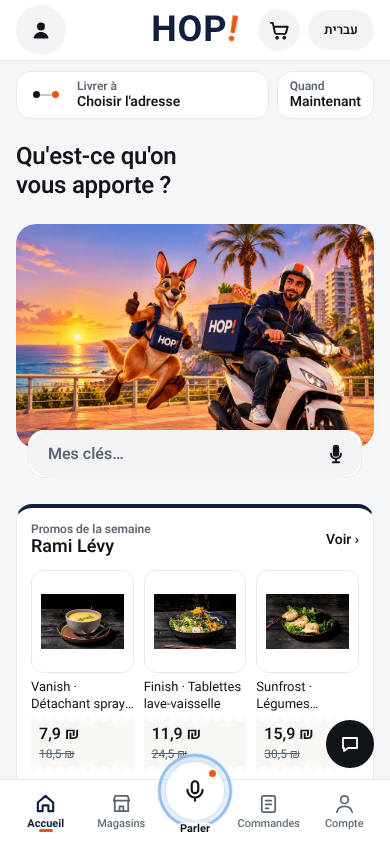
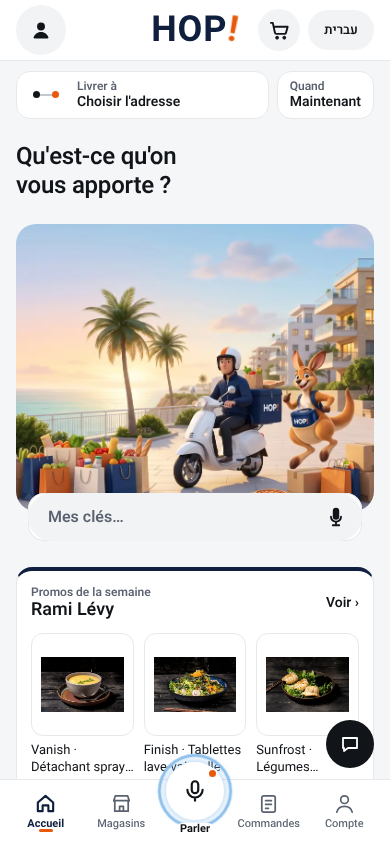
Accueil : la nouvelle image du patron (promenade, courses, Hoppy et le livreur), cadrée sur le scooter et Hoppy
Claude-Session: https://claude.ai/code/session_01HjyNE8jb2CVL8HhFoocmFa

diff --git a/livraison/coursier.html b/livraison/coursier.html
@@ -53,9 +53,9 @@
       window.addEventListener("load", function () { if (first) later(); });
     })();
   </script>
-  <script src="coursier-lang.js?v=202611231750"></script>
+  <script src="coursier-lang.js?v=202611231858"></script>
   <link rel="stylesheet" href="https://cdnjs.cloudflare.com/ajax/libs/leaflet/1.9.4/leaflet.min.css" />
-  <link rel="stylesheet" href="styles.css?v=202611231750" />
+  <link rel="stylesheet" href="styles.css?v=202611231858" />
 <style id="splashCss">#splash{position:fixed;inset:0;z-index:99999;display:flex;flex-direction:column;align-items:center;justify-content:center;gap:18px;background:#0F1F3D;color:#fff;transition:opacity .35s ease}#splash.out{opacity:0;pointer-events:none}#splash svg{width:min(58vw,300px);height:auto;display:block}#splash span{font:700 16px/1 Rubik,-apple-system,Arial,sans-serif;letter-spacing:.42em;margin-inline-start:.42em;opacity:.92}</style>
 </head>
 <body>
@@ -297,14 +297,14 @@
 
 <script src="https://cdnjs.cloudflare.com/ajax/libs/leaflet/1.9.4/leaflet.min.js"></script>
 <script src="https://cdnjs.cloudflare.com/ajax/libs/qrcodejs/1.0.0/qrcode.min.js"></script>
-<script src="config.js?v=202611231750"></script>
-<script src="i18n.js?v=202611231750"></script>
-<script src="pricing.js?v=202611231750"></script>
-<script src="store.js?v=202611231750"></script>
-<script src="chat.js?v=202611231750"></script>
-<script src="common.js?v=202611231750"></script>
-<script src="badge.js?v=202611231750"></script>
-<script src="coursier.js?v=202611231750"></script>
+<script src="config.js?v=202611231858"></script>
+<script src="i18n.js?v=202611231858"></script>
+<script src="pricing.js?v=202611231858"></script>
+<script src="store.js?v=202611231858"></script>
+<script src="chat.js?v=202611231858"></script>
+<script src="common.js?v=202611231858"></script>
+<script src="badge.js?v=202611231858"></script>
+<script src="coursier.js?v=202611231858"></script>
 <script>(function(){var s=document.getElementById("splash");if(!s)return;var t0=Date.now();function off(){var w=Math.max(0,650-(Date.now()-t0));setTimeout(function(){s.classList.add("out");setTimeout(function(){s.remove()},400)},w)}if(document.readyState==="complete")off();else addEventListener("load",off);setTimeout(off,3500)})();</script>
 </body>
 </html>

diff --git a/livraison/index.html b/livraison/index.html
@@ -103,7 +103,7 @@
       } catch (e) { /* ignore */ }
     })();
   </script>
-  <link rel="stylesheet" href="styles.css?v=202611231750" />
+  <link rel="stylesheet" href="styles.css?v=202611231858" />
 <style id="splashCss">#splash{position:fixed;inset:0;z-index:99999;display:flex;flex-direction:column;align-items:center;justify-content:center;gap:18px;background:#0F1F3D;color:#fff;transition:opacity .35s ease}#splash.out{opacity:0;pointer-events:none}#splash svg{width:min(58vw,300px);height:auto;display:block}#splash span{font:700 16px/1 Rubik,-apple-system,Arial,sans-serif;letter-spacing:.42em;margin-inline-start:.42em;opacity:.92}</style>
 </head>
 <body>
@@ -852,16 +852,16 @@
 
 <!-- (23/11) la carte se charge en arrière-plan : l'accueil s'affiche sans l'attendre -->
 <script async src="https://cdnjs.cloudflare.com/ajax/libs/leaflet/1.9.4/leaflet.min.js" onload="window.hopMapReady&&window.hopMapReady()"></script>
-<script src="config.js?v=202611231750"></script>
-<script src="i18n.js?v=202611231750"></script>
-<script src="pricing.js?v=202611231750"></script>
-<script src="store.js?v=202611231750"></script>
-<script src="chat.js?v=202611231750"></script>
-<script src="common.js?v=202611231750"></script>
-<script src="enseignes.js?v=202611231750"></script>
-<script src="places.js?v=202611231750"></script>
-<script src="rayons.js?v=202611231750"></script>
-<script src="client.js?v=202611231750"></script>
+<script src="config.js?v=202611231858"></script>
+<script src="i18n.js?v=202611231858"></script>
+<script src="pricing.js?v=202611231858"></script>
+<script src="store.js?v=202611231858"></script>
+<script src="chat.js?v=202611231858"></script>
+<script src="common.js?v=202611231858"></script>
+<script src="enseignes.js?v=202611231858"></script>
+<script src="places.js?v=202611231858"></script>
+<script src="rayons.js?v=202611231858"></script>
+<script src="client.js?v=202611231858"></script>
 <script>(function(){var s=document.getElementById("splash");if(!s)return;var t0=Date.now();function off(){var w=0;setTimeout(function(){s.classList.add("out");setTimeout(function(){s.remove()},400)},w)}off()})();</script>
 </body>
 </html>

diff --git a/livraison/admin.html b/livraison/admin.html
@@ -54,7 +54,7 @@
       window.addEventListener("load", function () { if (first) later(); });
     })();
   </script>
-  <link rel="stylesheet" href="styles.css?v=202611231750" />
+  <link rel="stylesheet" href="styles.css?v=202611231858" />
 <style id="splashCss">#splash{position:fixed;inset:0;z-index:99999;display:flex;flex-direction:column;align-items:center;justify-content:center;gap:18px;background:#0F1F3D;color:#fff;transition:opacity .35s ease}#splash.out{opacity:0;pointer-events:none}#splash svg{width:min(58vw,300px);height:auto;display:block}#splash span{font:700 16px/1 Rubik,-apple-system,Arial,sans-serif;letter-spacing:.42em;margin-inline-start:.42em;opacity:.92}</style>
 </head>
 <body>
@@ -190,15 +190,15 @@
 </div>
 
 <script src="https://cdnjs.cloudflare.com/ajax/libs/leaflet/1.9.4/leaflet.min.js"></script>
-<script src="config.js?v=202611231750"></script>
-<script src="i18n.js?v=202611231750"></script>
-<script src="pricing.js?v=202611231750"></script>
-<script src="store.js?v=202611231750"></script>
-<script src="chat.js?v=202611231750"></script>
-<script src="common.js?v=202611231750"></script>
-<script src="places.js?v=202611231750"></script>
-<script src="rayons.js?v=202611231750"></script>
-<script src="admin.js?v=202611231750"></script>
+<script src="config.js?v=202611231858"></script>
+<script src="i18n.js?v=202611231858"></script>
+<script src="pricing.js?v=202611231858"></script>
+<script src="store.js?v=202611231858"></script>
+<script src="chat.js?v=202611231858"></script>
+<script src="common.js?v=202611231858"></script>
+<script src="places.js?v=202611231858"></script>
+<script src="rayons.js?v=202611231858"></script>
+<script src="admin.js?v=202611231858"></script>
 <script>(function(){var s=document.getElementById("splash");if(!s)return;var t0=Date.now();function off(){var w=Math.max(0,650-(Date.now()-t0));setTimeout(function(){s.classList.add("out");setTimeout(function(){s.remove()},400)},w)}if(document.readyState==="complete")off();else addEventListener("load",off);setTimeout(off,3500)})();</script>
 </body>
 </html>

diff --git a/livraison/styles.css b/livraison/styles.css
@@ -7747,7 +7747,7 @@ html.st #bellBtn .chat-badge { font-size: 11px; }
 /* La scène du haut : rue de Netanya, livreur HOP! et Hoppy (dessin en attendant l'image du patron), titre sur le ciel,
    recherche posée à cheval sur le bas de l'image */
 html.d4 #vitHero { position: relative; display: flex; flex-direction: column; padding: 0 !important; margin-top: 16px; background: none !important; }
-html.d4 #vitHero#vitHero::before { content: "" !important; display: block !important; order: 1; position: static !important; inset: auto !important; z-index: auto !important; animation: none !important; opacity: 1 !important; aspect-ratio: 960 / 600; width: 100%; border-radius: 20px; background: #F2C49B url("img/hero/accueil-scene.webp") center / cover no-repeat; }
+html.d4 #vitHero#vitHero::before { content: "" !important; display: block !important; order: 1; position: static !important; inset: auto !important; z-index: auto !important; animation: none !important; opacity: 1 !important; aspect-ratio: 5 / 4; width: 100%; border-radius: 20px; background: #F3E7DA url("img/hero/accueil-scene.webp") 88% 40% / cover no-repeat; }
 /* (image du patron, 23/11 : coucher de soleil sur la promenade de Netanya) le titre au-dessus de l'image, la scène reste entière */
 html.d4 #vitHero#vitHero > * { order: 2; }
 html.d4 #vitHero#vitHero > .vit-ask { order: 0; }

diff --git a/livraison/bienvenue.html b/livraison/bienvenue.html
@@ -15,7 +15,7 @@
   <link rel="preconnect" href="https://fonts.googleapis.com" />
   <link rel="preconnect" href="https://fonts.gstatic.com" crossorigin />
   <link href="https://fonts.googleapis.com/css2?family=Fredoka:wght@500;600;700&family=Heebo:wght@400;500;600;700;800&family=Rubik:wght@400;500;600;700;800&display=swap" rel="stylesheet" />
-  <link rel="stylesheet" href="styles.css?v=202611231750" />
+  <link rel="stylesheet" href="styles.css?v=202611231858" />
   <script>
     // Nouveau design (validé par le patron) : pour tout le monde ; ?design=1 garde l'ancien sur ce téléphone, ?design=2 revient au nouveau
     try { var dq = new URLSearchParams(location.search).get("design");
@@ -72,11 +72,11 @@
 
 <div class="ol-bar"><a class="btn btn-primary btn-lg" href="index.html" id="bvGo"></a></div>
 
-<script src="config.js?v=202611231750"></script>
-<script src="i18n.js?v=202611231750"></script>
-<script src="pricing.js?v=202611231750"></script>
-<script src="store.js?v=202611231750"></script>
-<script src="common.js?v=202611231750"></script>
+<script src="config.js?v=202611231858"></script>
+<script src="i18n.js?v=202611231858"></script>
+<script src="pricing.js?v=202611231858"></script>
+<script src="store.js?v=202611231858"></script>
+<script src="common.js?v=202611231858"></script>
 <script>
 (function () {
   "use strict";

diff --git a/livraison/commerce.html b/livraison/commerce.html
@@ -77,7 +77,7 @@
       window.addEventListener("load", function () { if (first) later(); });
     })();
   </script>
-  <link rel="stylesheet" href="styles.css?v=202611231750" />
+  <link rel="stylesheet" href="styles.css?v=202611231858" />
 </head>
 <body>
 
@@ -196,13 +196,13 @@
 <button type="button" class="wa-fab chat-fab" id="waFab"><span>💬</span><b data-i18n="chatFab"></b><i class="chat-badge hidden" id="fabBadge"></i></button>
 
 <script src="https://cdnjs.cloudflare.com/ajax/libs/qrcodejs/1.0.0/qrcode.min.js"></script>
-<script src="config.js?v=202611231750"></script>
-<script src="i18n.js?v=202611231750"></script>
-<script src="pricing.js?v=202611231750"></script>
-<script src="store.js?v=202611231750"></script>
-<script src="chat.js?v=202611231750"></script>
-<script src="common.js?v=202611231750"></script>
-<script src="places.js?v=202611231750"></script>
-<script src="commerce.js?v=202611231750"></script>
+<script src="config.js?v=202611231858"></script>
+<script src="i18n.js?v=202611231858"></script>
+<script src="pricing.js?v=202611231858"></script>
+<script src="store.js?v=202611231858"></script>
+<script src="chat.js?v=202611231858"></script>
+<script src="common.js?v=202611231858"></script>
+<script src="places.js?v=202611231858"></script>
+<script src="commerce.js?v=202611231858"></script>
 </body>
 </html>

diff --git a/livraison/suivi.html b/livraison/suivi.html
@@ -45,7 +45,7 @@
       window.addEventListener("load", function () { if (first) later(); });
     })();
   </script>
-  <link rel="stylesheet" href="styles.css?v=202611231750" />
+  <link rel="stylesheet" href="styles.css?v=202611231858" />
   <script>
     // Nouveau design (validé par le patron) : pour tout le monde ; ?design=1 garde l'ancien sur ce téléphone, ?design=2 revient au nouveau
     try { var dq = new URLSearchParams(location.search).get("design");
@@ -157,12 +157,12 @@
 </div>
 
 <script src="https://cdnjs.cloudflare.com/ajax/libs/leaflet/1.9.4/leaflet.min.js"></script>
-<script src="config.js?v=202611231750"></script>
-<script src="i18n.js?v=202611231750"></script>
-<script src="pricing.js?v=202611231750"></script>
-<script src="store.js?v=202611231750"></script>
-  <script src="chat.js?v=202611231750"></script>
-<script src="common.js?v=202611231750"></script>
-<script src="suivi.js?v=202611231750"></script>
+<script src="config.js?v=202611231858"></script>
+<script src="i18n.js?v=202611231858"></script>
+<script src="pricing.js?v=202611231858"></script>
+<script src="store.js?v=202611231858"></script>
+  <script src="chat.js?v=202611231858"></script>
+<script src="common.js?v=202611231858"></script>
+<script src="suivi.js?v=202611231858"></script>
 </body>
 </html>

diff --git a/livraison/on-livre.html b/livraison/on-livre.html
@@ -13,7 +13,7 @@
   <link rel="preconnect" href="https://fonts.googleapis.com" />
   <link rel="preconnect" href="https://fonts.gstatic.com" crossorigin />
   <link href="https://fonts.googleapis.com/css2?family=Fredoka:wght@500;600;700&family=Heebo:wght@400;500;600;700;800&family=Rubik:wght@400;500;600;700;800&display=swap" rel="stylesheet" />
-  <link rel="stylesheet" href="styles.css?v=202611231750" />
+  <link rel="stylesheet" href="styles.css?v=202611231858" />
   <script>
     // Nouveau design (validé par le patron) : pour tout le monde ; ?design=1 garde l'ancien sur ce téléphone, ?design=2 revient au nouveau
     try { var dq = new URLSearchParams(location.search).get("design");
@@ -63,10 +63,10 @@
 
 <div class="ol-bar"><a class="btn btn-primary btn-lg" href="index.html" id="olGo"></a></div>
 
-<script src="config.js?v=202611231750"></script>
-<script src="i18n.js?v=202611231750"></script>
-<script src="pricing.js?v=202611231750"></script>
-<script src="common.js?v=202611231750"></script>
+<script src="config.js?v=202611231858"></script>
+<script src="i18n.js?v=202611231858"></script>
+<script src="pricing.js?v=202611231858"></script>
+<script src="common.js?v=202611231858"></script>
 <script>
 (function () {
   "use strict";

diff --git a/livraison/badge.html b/livraison/badge.html
@@ -10,7 +10,7 @@
   <link rel="preconnect" href="https://fonts.googleapis.com" />
   <link rel="preconnect" href="https://fonts.gstatic.com" crossorigin />
   <link href="https://fonts.googleapis.com/css2?family=Fredoka:wght@500;600;700&family=Rubik:wght@400;500;600;700;800&display=swap" rel="stylesheet" />
-  <link rel="stylesheet" href="styles.css?v=202611231750" />
+  <link rel="stylesheet" href="styles.css?v=202611231858" />
   <style>
     body { background: #0F1F3D; color: #fff; min-height: 100vh; font-family: Rubik, sans-serif; }
     .bd-page { max-width: 460px; margin: 0 auto; padding: 32px 16px; text-align: center; }
@@ -26,7 +26,7 @@
     <p>Chaque livreur débloque un badge à 1, 10, 25, 50, 100, 250, 500 et 1 000 courses livrées. Il s'affiche une fois dans l'appli HOP! Livreur, puis reste dans « Statistiques ». Touchez une médaille pour la voir.</p>
     <div class="bdg-row" id="row"></div>
   </main>
-  <script src="badge.js?v=202611231750"></script>
+  <script src="badge.js?v=202611231858"></script>
   <script>
     const row = document.getElementById("row");
     row.innerHTML = Badge.MILESTONES.map(m => `<button type="button" data-n="${m.n}">${Badge.medal(m.n)}<span>${m.tier}</span></button>`).join("");

diff --git a/livraison/kit.html b/livraison/kit.html
@@ -12,7 +12,7 @@
   <link rel="preconnect" href="https://fonts.googleapis.com" />
   <link rel="preconnect" href="https://fonts.gstatic.com" crossorigin />
   <link href="https://fonts.googleapis.com/css2?family=Fredoka:wght@500;600;700&family=Rubik:wght@400;500;600;700;800&display=swap" rel="stylesheet" />
-  <link rel="stylesheet" href="styles.css?v=202611231750" />
+  <link rel="stylesheet" href="styles.css?v=202611231858" />
 </head>
 <body class="kit-page">
 
@@ -179,10 +179,10 @@
 </div>
 
 <script src="https://cdnjs.cloudflare.com/ajax/libs/qrcodejs/1.0.0/qrcode.min.js"></script>
-<script src="config.js?v=202611231750"></script>
-<script src="i18n.js?v=202611231750"></script>
-<script src="pricing.js?v=202611231750"></script>
-<script src="common.js?v=202611231750"></script>
-<script src="kit.js?v=202611231750"></script>
+<script src="config.js?v=202611231858"></script>
+<script src="i18n.js?v=202611231858"></script>
+<script src="pricing.js?v=202611231858"></script>
+<script src="common.js?v=202611231858"></script>
+<script src="kit.js?v=202611231858"></script>
 </body>
 </html>

diff --git a/livraison/recu.html b/livraison/recu.html
@@ -43,7 +43,7 @@
       window.addEventListener("load", function () { if (first) later(); });
     })();
   </script>
-  <link rel="stylesheet" href="styles.css?v=202611231750" />
+  <link rel="stylesheet" href="styles.css?v=202611231858" />
 </head>
 <body class="receipt-page">
   <main class="wrap narrow" style="padding:20px 16px 40px">
@@ -53,11 +53,11 @@
       <a class="btn" href="index.html#mes-courses">← Retour · חזרה</a>
     </div>
   </main>
-  <script src="config.js?v=202611231750"></script>
-  <script src="i18n.js?v=202611231750"></script>
-  <script src="pricing.js?v=202611231750"></script>
-  <script src="store.js?v=202611231750"></script>
-  <script src="common.js?v=202611231750"></script>
-  <script src="recu.js?v=202611231750"></script>
+  <script src="config.js?v=202611231858"></script>
+  <script src="i18n.js?v=202611231858"></script>
+  <script src="pricing.js?v=202611231858"></script>
+  <script src="store.js?v=202611231858"></script>
+  <script src="common.js?v=202611231858"></script>
+  <script src="recu.js?v=202611231858"></script>
 </body>
 </html>

diff --git a/livraison/autocollant.html b/livraison/autocollant.html
@@ -89,7 +89,7 @@
 </div></div>
 
 <script src="https://cdnjs.cloudflare.com/ajax/libs/qrcodejs/1.0.0/qrcode.min.js"></script>
-<script src="config.js?v=202611231750"></script>
+<script src="config.js?v=202611231858"></script>
 <script>
 (function () {
   "use strict";
